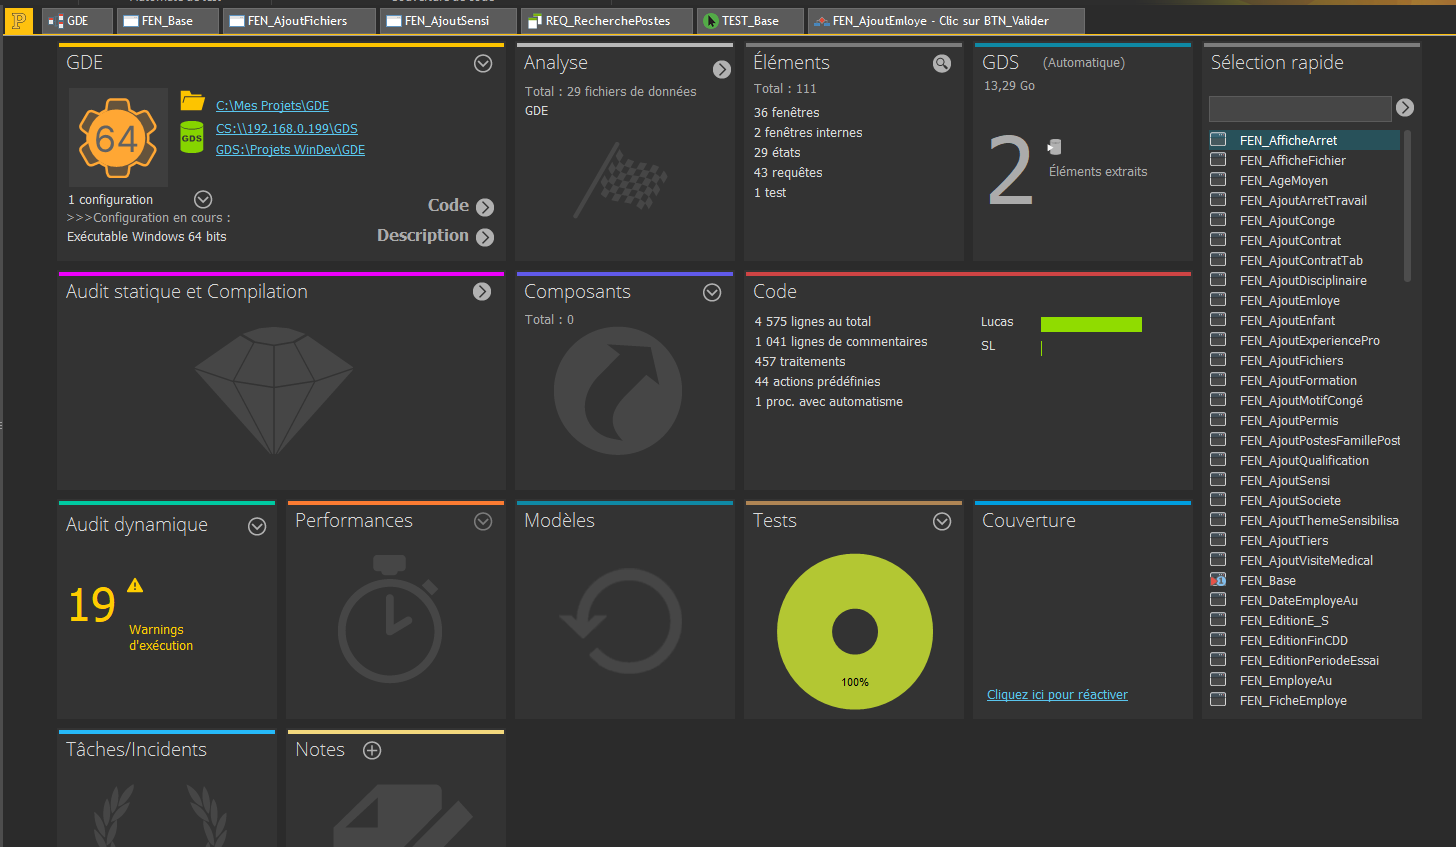
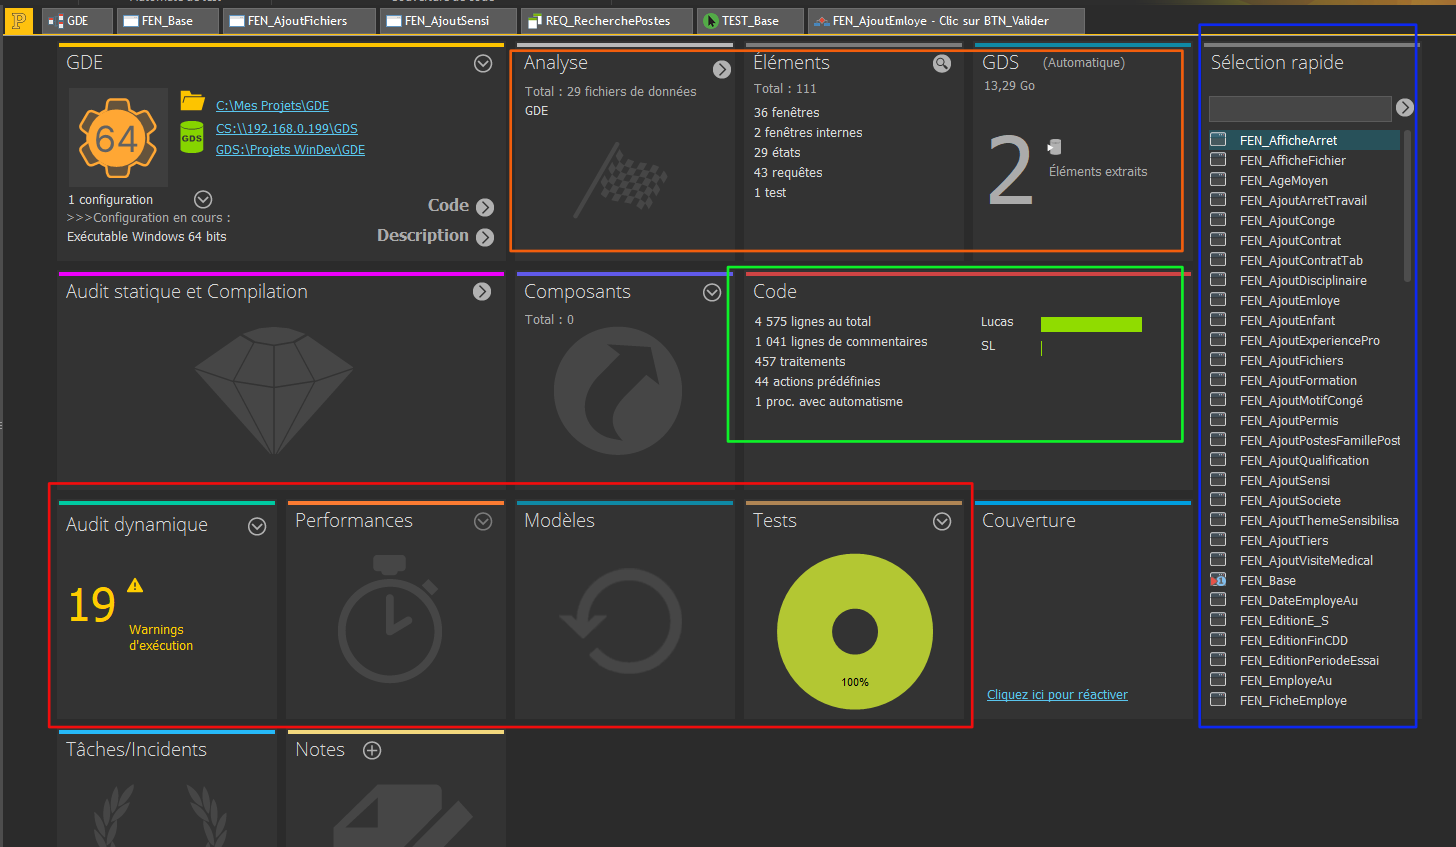
amelioration

diff --git a/suivi-de-projet.html b/suivi-de-projet.html
@@ -37,7 +37,6 @@
       <li><span class="sf sf-orange">Savoir comprendre l'organisation d'un projet existant</span></li>
       <li><span class="sf sf-bleu">Savoir identifier les composants utiles à une tâche</span></li>
       <li><span class="sf sf-rouge">Savoir se repérer dans une arborescence de projet</span></li>
-      <li>Savoir travailler dans une structure déjà mise en place</li>
     </ul>
 
     <div class="trace-layout">
@@ -46,21 +45,28 @@
           <img src="image/GestionDuProjet.png" alt="Trace 1 - Gestion de projet">
         </div>
       </div>
+      
 
       <div class="trace-content">
         <h3>Repères colorés sur la trace</h3>
         <ul class="sf-list">
-          <li><span class="sf sf-vert">Encadré vert</span> : vue principale du projet et ensemble des éléments disponibles.</li>
-          <li><span class="sf sf-orange">Encadré orange</span> : zone mettant en évidence des composants ou fichiers de travail.</li>
-          <li><span class="sf sf-bleu">Encadré bleu</span> : élément sélectionné ou zone de navigation importante.</li>
-          <li><span class="sf sf-rouge">Encadré rouge</span> : partie critique pour le suivi ou l'analyse du projet.</li>
+          <li><span class="sf sf-vert">Encadré vert</span> : Repartition de la charge de travail en terme de nombre de lignes de code.</li>
+          <li><span class="sf sf-orange">Encadré orange</span> : Zone mettant en avant le nombre de fenêtres et autre information concernant la taille du projet.</li>
+          <li><span class="sf sf-bleu">Encadré bleu</span> : Accès rapide aux éléments principaux du projet.</li>
+          <li><span class="sf sf-rouge">Encadré rouge</span> : Suivi des performances techniques comme reussite de tests ou eventuelles anomalies.</li>
         </ul>
 
         <h3>Descriptif général de la trace</h3>
-        <p>Cette trace montre l'organisation générale du projet dans l'environnement de développement. On y voit les différents éléments qui composent l'application, comme les fenêtres, requêtes, traitements ou autres composants associés. Cette vue d'ensemble est importante car elle permet de comprendre comment le projet est structuré et comment s'y repérer pour intervenir efficacement.</p>
+        <p>Cette trace montre l'organisation générale du projet dans l'environnement de développement. 
+          On y voit les différents éléments qui composent l'application, comme les fenêtres, requêtes, 
+          traitements ou autres composants associés. Cette vue d'ensemble est importante car elle permet de 
+          comprendre comment le projet est structuré et comment s'y repérer pour intervenir efficacement.</p>
 
         <h3>Descriptif des savoir-faire</h3>
-        <p>L'<span class="sf sf-vert">encadré vert</span> met en évidence la vue globale du projet, ce qui montre ma capacité à repérer les éléments constitutifs d'une application. L'<span class="sf sf-orange">encadré orange</span> attire l'attention sur une zone de travail précise, illustrant mon aptitude à identifier les composants utiles à une tâche donnée. L'<span class="sf sf-bleu">encadré bleu</span> signale un élément sélectionné ou une zone de navigation importante, ce qui traduit ma capacité à me repérer dans l'arborescence. Enfin, l'<span class="sf sf-rouge">encadré rouge</span> met en avant une partie importante pour le suivi ou la compréhension du projet, révélant mon aptitude à travailler dans une structure déjà existante.</p>
+        <p>L'<span class="sf sf-vert">encadré vert</span> met en evidence ma contribution au seins du projet, ce qui montre ma capacité à travaillé en equipe ou à travailler de manière autonome. 
+          L'<span class="sf sf-orange">encadré orange</span> met en évidence la vue globale du projet, ce qui montre ma capacité à repérer les éléments constitutifs d'une application. 
+          L'<span class="sf sf-bleu">encadré bleu</span> met en évidence la vue globale du projet, ce qui montre ma capacité à repérer les éléments constitutifs d'une application. 
+          Enfin, l'<span class="sf sf-rouge">encadré rouge</span> met en avant une partie importante pour le suivi ou la compréhension du projet, révélant mon aptitude à travailler dans une structure complexe.</p>
       </div>
     </div>
   </section>
@@ -74,30 +80,39 @@
       <li><span class="sf sf-orange">Savoir consulter l'historique d'un projet</span></li>
       <li><span class="sf sf-bleu">Savoir identifier les modifications réalisées</span></li>
       <li><span class="sf sf-rouge">Savoir comparer des versions successives</span></li>
-      <li>Savoir comprendre l'évolution d'un projet dans le temps</li>
     </ul>
 
     <div class="trace-layout">
       <div class="trace-media">
         <div class="trace-zone">
-          <img src="image/GDS2.png" alt="Trace 2 - GDS">
+          <img src="image/GDS.png" alt="Trace 2 - GDS">
+        </div>
+        <div class="trace-zone">
+          <img src="image/GDS2.png" alt="Trace 2 - GDS2">
         </div>
       </div>
 
       <div class="trace-content">
         <h3>Repères colorés sur la trace</h3>
         <ul class="sf-list">
-          <li><span class="sf sf-vert">Encadré vert</span> : dépôt ou répertoire principal concerné.</li>
-          <li><span class="sf sf-orange">Encadré orange</span> : commandes ou actions du GDS.</li>
-          <li><span class="sf sf-bleu">Encadré bleu</span> : détail des fichiers ou éléments versionnés.</li>
-          <li><span class="sf sf-rouge">Encadré rouge</span> : historique des modifications et versions successives.</li>
+          <li><span class="sf sf-vert">Encadré vert</span> : répertoire principal de l'application.</li>
+          <li><span class="sf sf-violet">Encadré violet</span> : Ensemble des projets contenus dans le GDS(Gestionnaire de Source).</li>
+          <li><span class="sf sf-bleu">Encadré bleu</span> : Ensemble des modifications apportées durant une version, modification, ajout et suppression de fichiers.</li>
+          <li><span class="sf sf-rouge">Encadré rouge</span> : historique des versions successives.</li>
         </ul>
 
         <h3>Descriptif général de la trace</h3>
-        <p>Cette trace correspond à l'utilisation du GDS dans le cadre du projet. Elle montre les dépôts, les répertoires suivis, ainsi que l'historique des versions et des modifications. Cette trace est importante car elle illustre la manière dont le projet est suivi dans le temps et comment les évolutions sont conservées dans un environnement professionnel.</p>
+        <p>Cette trace correspond à l'utilisation du GDS dans le cadre du projet. 
+          Elle montre les dépôts, les répertoires suivis, ainsi que l'historique des versions et des modifications. 
+          Le GDS utilise un fonctionnement d'extraction des fichiers, un fichiers extrait ne peut etr modifié que par une personne, cela permet d'éviter les conflits de modification.
+          Cette trace est importante car elle illustre la manière dont le projet est suivi dans le temps et comment les évolutions sont conservées 
+          dans un environnement professionnel. Si le projet etait organisé en groupes, cela permettrait de mieux structurer et de faciliter le suivi des différentes parties du projet.</p>
 
         <h3>Descriptif des savoir-faire</h3>
-        <p>L'<span class="sf sf-vert">encadré vert</span> met en évidence le dépôt ou le répertoire sur lequel porte le suivi, ce qui montre ma capacité à utiliser un gestionnaire de versions dans un cadre concret. L'<span class="sf sf-orange">encadré orange</span> attire l'attention sur les actions disponibles, illustrant ma capacité à récupérer, comparer ou réintégrer des éléments du projet. L'<span class="sf sf-bleu">encadré bleu</span> met en avant le détail des éléments concernés, ce qui montre que je sais identifier les fichiers impliqués dans une évolution. Enfin, l'<span class="sf sf-rouge">encadré rouge</span> souligne l'historique des versions, démontrant ma capacité à consulter et comprendre l'évolution du projet dans le temps.</p>
+        <p>L'<span class="sf sf-vert">encadré vert</span> met en évidence le répertoire sur lequel porte le suivi, ce qui montre ma capacité à utiliser un gestionnaire de versions dans un cadre concret. 
+          L'<span class="sf sf-violet">encadré violet</span> attire l'attention sur les different projets, ce qui montre ma capacité à naviguer entre les différents espaces de travail. 
+          L'<span class="sf sf-bleu">encadré bleu</span> met en avant le détail des éléments concernés, ce qui montre que je sais identifier les fichiers impliqués dans une évolution. 
+          Enfin, l'<span class="sf sf-rouge">encadré rouge</span> souligne l'historique des versions, démontrant ma capacité à consulter et comprendre l'évolution du projet dans le temps.</p>
       </div>
     </div>
   </section>
@@ -116,17 +131,17 @@
       </ul>
 
       <p><strong>Rappel du contexte d'utilisation :</strong> ces compétences ont été mobilisées tout au long du stage pour retrouver les bons éléments, comprendre la structure du projet et suivre les modifications apportées.</p>
-      <p><strong>Contexte d'apprentissage :</strong> certaines bases avaient déjà été vues en formation, mais leur usage quotidien dans un projet professionnel m'a permis de les approfondir de manière concrète.</p>
-      <p><strong>Difficultés d'apprentissage et/ou d'utilisation :</strong> la difficulté principale a été de prendre rapidement mes repères dans un projet existant contenant de nombreux éléments et d'adopter les pratiques de suivi utilisées par l'équipe.</p>
+      <p><strong>Contexte d'apprentissage :</strong> certaines bases avaient déjà été vues en formation, mais l'utilisation d'un autre gestionnaire de version que git permet de renforcer les acquis.</p>
+      <p><strong>Difficultés d'apprentissage et/ou d'utilisation :</strong> la difficulté principale de comprendre le fonctionnement du GDS et de s'adapter à son interface.</p>
 
       <p><strong>Évaluation justifiée du niveau :</strong></p>
       <p>Niveau avant le stage : <span class="niveau">Moyen</span> &nbsp;→&nbsp; Niveau après : <span class="niveau">Bon</span></p>
-      <p>Avant le stage, mon niveau était plutôt moyen. Après cette expérience, j'estime avoir atteint un bon niveau dans l'utilisation des outils de suivi du projet.</p>
+      <p>Avant le stage, mon niveau était plutôt moyen. Après cette expérience, j'estime avoir atteint un bon niveau dans l'utilisation des outils de suivi du projet. notament pour la recherche des versions antérieuresdu projet.</p>
     </div>
 
     <div class="bilan-block">
-      <h3>Savoir-faire général 2 : Savoir organiser son travail dans un projet existant</h3>
-      <p><strong>Résumé des savoir-faire élémentaires associés :</strong> ce savoir-faire général regroupe la capacité à se repérer dans une arborescence, identifier les composants utiles, comprendre l'état d'avancement du projet et intervenir dans une organisation déjà définie.</p>
+      <h3>Savoir-faire général 2 : Savoir organiser son travail dans un projet a crée </h3>
+      <p><strong>Résumé des savoir-faire élémentaires associés :</strong> ce savoir-faire général regroupe la capacité à se repérer dans une arborescence, identifier les composants utiles, comprendre l'état d'avancement du projet et intervenir dans une organisation a definir.</p>
 
       <p><strong>Traces associées :</strong></p>
       <ul class="sf-list">
@@ -135,12 +150,12 @@
       </ul>
 
       <p><strong>Rappel du contexte d'utilisation :</strong> ce savoir-faire a été mobilisé de manière régulière pendant le stage, chaque fois qu'il fallait localiser les bons fichiers, comprendre les modifications existantes ou travailler sur une partie précise du projet.</p>
-      <p><strong>Contexte d'apprentissage :</strong> il a surtout été développé en entreprise, par la pratique quotidienne et par l'observation du fonctionnement de l'équipe.</p>
-      <p><strong>Difficultés d'apprentissage et/ou d'utilisation :</strong> la principale difficulté a été de m'adapter à une structure de projet déjà importante, sans avoir participé à sa création initiale.</p>
+      <p><strong>Contexte d'apprentissage :</strong> L'outils etant incorporé et devellopé par Windev l'utilisation du GDS est tres intuitive et facile a prendre en main.</p>
+      <p><strong>Difficultés d'apprentissage et/ou d'utilisation :</strong> la principale difficulté a été de resoudre certain probleme de compatibilité entre les fichiers lors de leurs suppression car defois ils etaient uniquement supprimés soit que sur le GDS soit en local.</p>
 
       <p><strong>Évaluation justifiée du niveau :</strong></p>
-      <p>Niveau avant le stage : <span class="niveau">Limité</span> &nbsp;→&nbsp; Niveau après : <span class="niveau">Correct à bon</span></p>
-      <p>Avant le stage, ce savoir-faire était encore limité. Après le stage, j'estime avoir atteint un niveau correct à bon, car je suis devenu plus méthodique dans ma manière d'aborder un projet déjà construit.</p>
+      <p>Niveau avant le stage : <span class="niveau">bon</span> &nbsp;→&nbsp; Niveau après : <span class="niveau">bon</span></p>
+      <p>Avant le stage, ce savoir-faire était déjà bon. Après le stage, j'estime avoir garder un niveau bon, car le GDS etant plus simple que GIT cela ne m'a pas posé de problème majeur.</p>
     </div>
   </section>
 </main>

diff --git a/technique.html b/technique.html
@@ -188,16 +188,16 @@
 
       <p><strong>Traces associées :</strong></p>
       <ul class="sf-list">
-        <li>Trace 1 : main page / interface principale</li>
+        <li>Trace 1 : Page Principale / interface principale</li>
         <li>Trace 3 : base de données</li>
       </ul>
 
       <p><strong>Rappel du contexte d'utilisation :</strong> ce savoir-faire a été mobilisé lors de la conception de l'interface et dans la compréhension de la structure des données nécessaires au projet.</p>
       <p><strong>Contexte d'apprentissage :</strong> une partie de ces compétences a été abordée en cours, notamment dans le cadre des projets de développement et de base de données. Le stage m'a permis de les réinvestir dans un contexte professionnel plus concret.</p>
-      <p><strong>Difficultés d'apprentissage et/ou d'utilisation :</strong> la difficulté principale a été de concevoir une solution cohérente dans un environnement existant, en tenant compte à la fois des contraintes techniques, des besoins utilisateurs et de l'organisation déjà en place.</p>
+      <p><strong>Difficultés d'apprentissage et/ou d'utilisation :</strong> la difficulté principale a été de concevoir une solution cohérente, en tenant compte des contraintes techniques.</p>
 
       <p><strong>Évaluation justifiée du niveau :</strong></p>
-      <p>Niveau avant le stage : <span class="niveau">Moyen</span> &nbsp;→&nbsp; Niveau après : <span class="niveau">Bon</span></p>
+      <p>Niveau avant le stage : <span class="niveau">Intermediaire</span> &nbsp;→&nbsp; Niveau après : <span class="niveau">Bon</span></p>
       <p>Avant le stage, mon niveau était moyen. Après cette expérience, j'estime avoir atteint un bon niveau, car je suis davantage capable de penser une solution dans son ensemble et pas seulement élément par élément.</p>
     </div>
 
@@ -217,7 +217,7 @@
       <p><strong>Difficultés d'apprentissage et/ou d'utilisation :</strong> les principales difficultés ont été de comprendre la logique métier déjà présente, d'écrire un traitement fiable et d'exploiter correctement les données disponibles.</p>
 
       <p><strong>Évaluation justifiée du niveau :</strong></p>
-      <p>Niveau avant le stage : <span class="niveau">Moyen</span> &nbsp;→&nbsp; Niveau après : <span class="niveau">Bon</span></p>
+      <p>Niveau avant le stage : <span class="niveau">Intermediaire</span> &nbsp;→&nbsp; Niveau après : <span class="niveau">Bon</span></p>
       <p>Avant le stage, mon niveau était moyen. Après le stage, je considère avoir progressé vers un niveau bon, car je sais mieux articuler code, données et contraintes métier.</p>
     </div>
   </section>

diff --git a/index.html b/index.html
@@ -20,11 +20,11 @@
   <h1 class="page-title">Bienvenue sur mon portfolio</h1>
 
   <h2>Introduction</h2>
-  <p>Ce portfolio présente une synthèse de mon expérience de stage / alternance réalisée au cours de ma deuxième année de BUT Informatique. Il a pour objectif de mettre en lumière les savoir-faire que j'ai développés ou consolidés, à travers des traces concrètes issues de mon activité en entreprise.</p>
+  <p>Je suis Rietz Ethan et j'étudie actuellement en deuxième année de BUT Informatique à l'IUT Marie et Louis Pasteur à Belfort. Dans le cadre de ma formation, j'ai effectué un stage d'une durée de 10 semaines, du 7 avril au 12 juin 2026. J'ai effectué ce stage chez SP Informatique, une de conseil & gestions de solutions informatiques. Ce site a donc pour but d'évoquer les savoir-faire que j'ai acquis durant le stage.</p>
   <p>Il s'articule autour de trois axes principaux : la dimension <strong>technique</strong>, le <strong>suivi de projet</strong>, et l'<strong>intégration en entreprise</strong>.</p>
 
   <h2>Contexte de l'entreprise</h2>
-  <p>[À compléter : présentation de l'entreprise — secteur d'activité, taille, mission. Personnes impliquées dans le stage : tuteur, équipe, rôles. Moyens de travail mis à disposition : matériel, logiciels, environnement de développement, etc.]</p>
+  <p>SP Informatique accompagne les professionnels depuis plus de 25 ans dans l'optimisation de leur environnement de travail. L'entreprise propose des solutions complètes allant des logiciels de gestion jusqu'au matériel informatique. L'entrprise Devellope egalement l'ERP Gestiflex, un logiciel de gestion intégré pour les entreprises du secteur du batiment.</p>
 
   <div class="illu-accueil">
     <img src="image/SPI.webp" alt="Logo SPI de l'entreprise">
